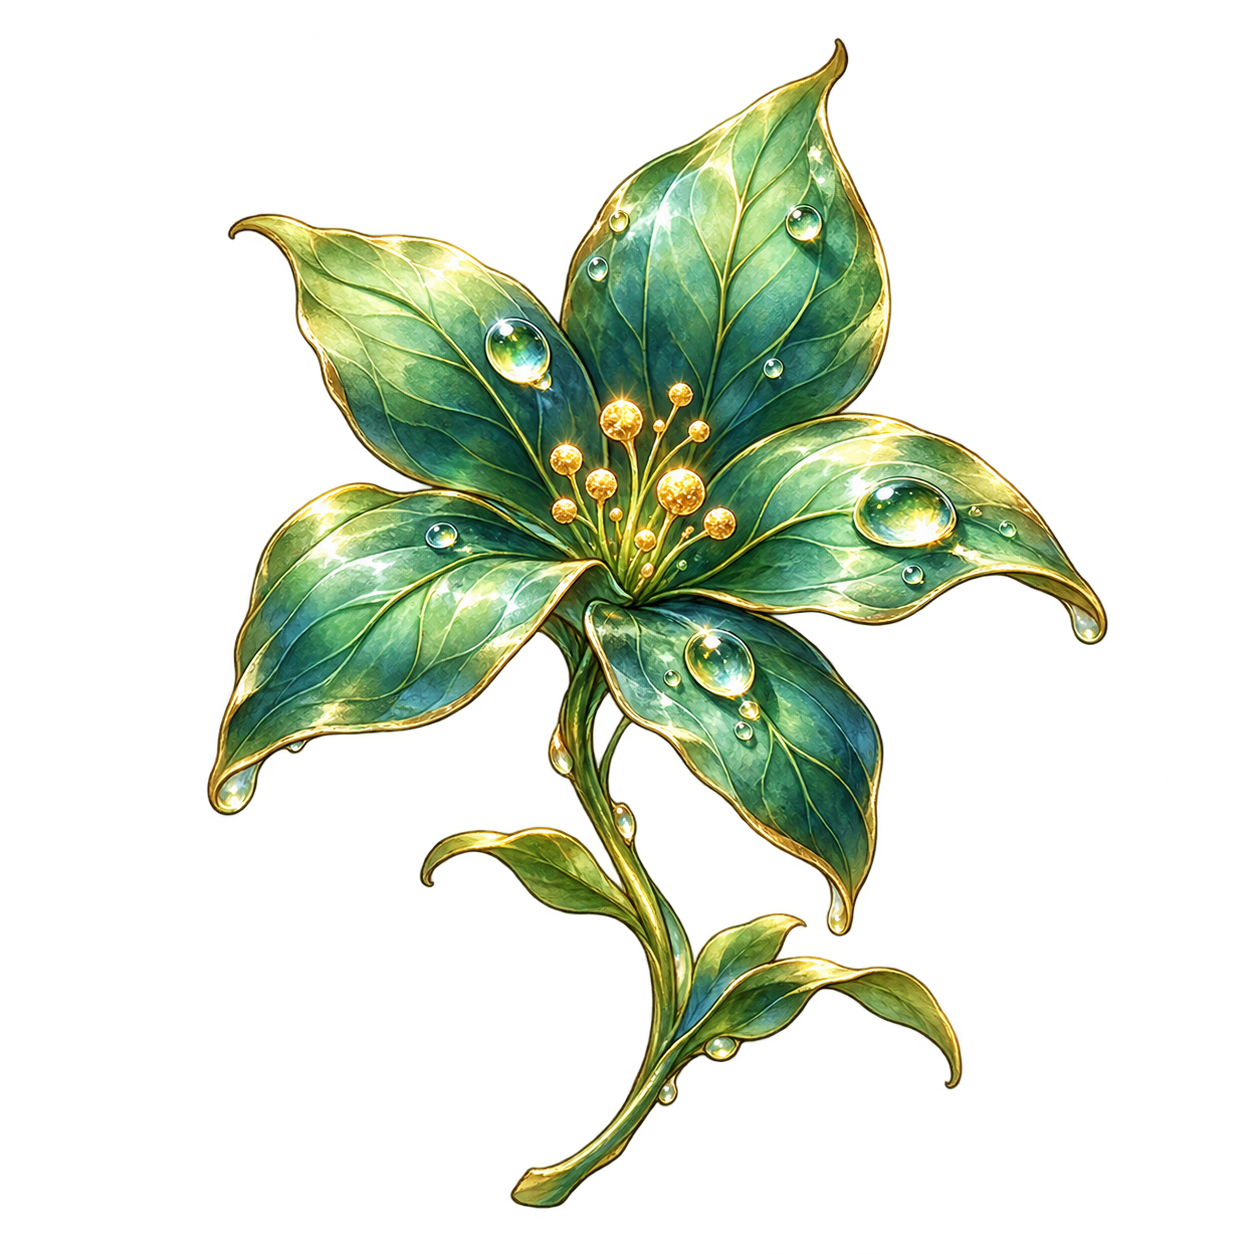
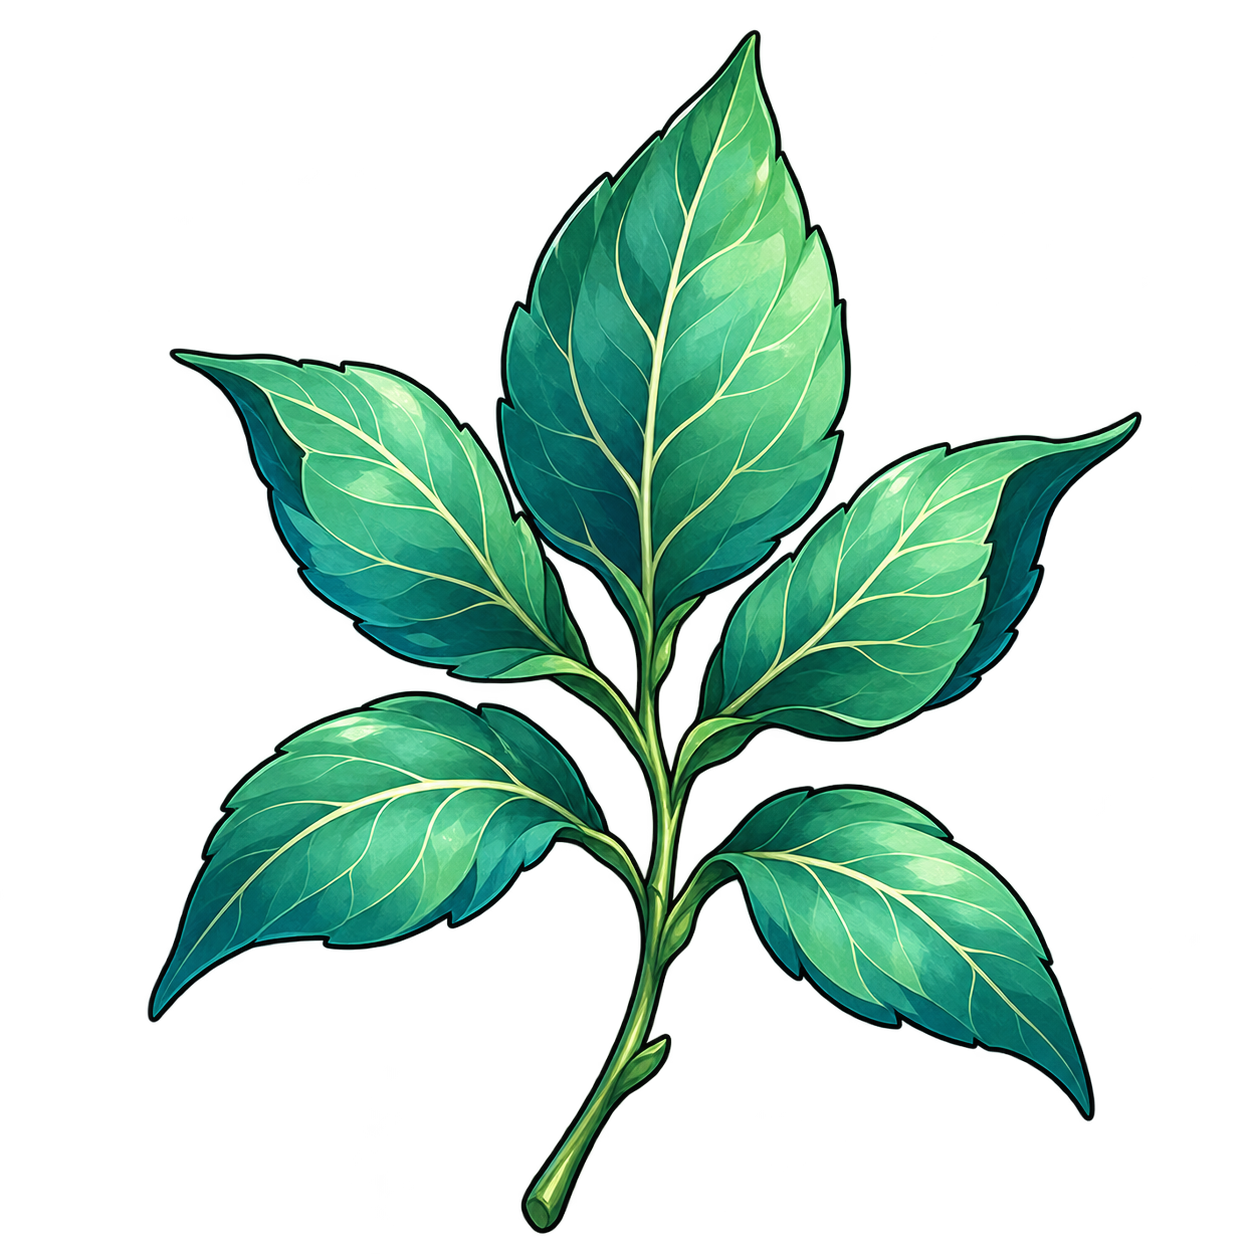
Add illustrated alchemy materials

diff --git a/lib/alchemy-atelier.js b/lib/alchemy-atelier.js
@@ -79,7 +79,7 @@ export const REGIONS = [
 ];
 
 export const MATERIALS = [
-  { id: 'herb', name: '青葉草', icon: '🌿', image: '/alchemy/materials/herb.png', element: '木' },
+  { id: 'herb', name: '青葉草', icon: '🌿', element: '木' },
   { id: 'dew', name: '晨露', icon: '💧', element: '水' },
   { id: 'wood', name: '古木枝', icon: '🪵', element: '木' },
   { id: 'moss', name: '月光苔', icon: '🍃', element: '風' },
@@ -114,7 +114,7 @@ export const MATERIALS = [
   { id: 'shadowleaf', name: '影葉', icon: '🍂', element: '暗' },
   { id: 'stormglass', name: '雷璃片', icon: '⚡', element: '風' },
   { id: 'sunseed', name: '日輪種', icon: '🌻', element: '光' }
-];
+].map(material => ({ ...material, image: `/alchemy/materials/${material.id}.png` }));
 
 export const RECIPES = [
   { id: 'healing', name: '青葉療傷藥', icon: '🧪', kind: 'heal', effect: '恢復 24 HP', ingredients: { herb: 2, dew: 1 }, power: 24 },
